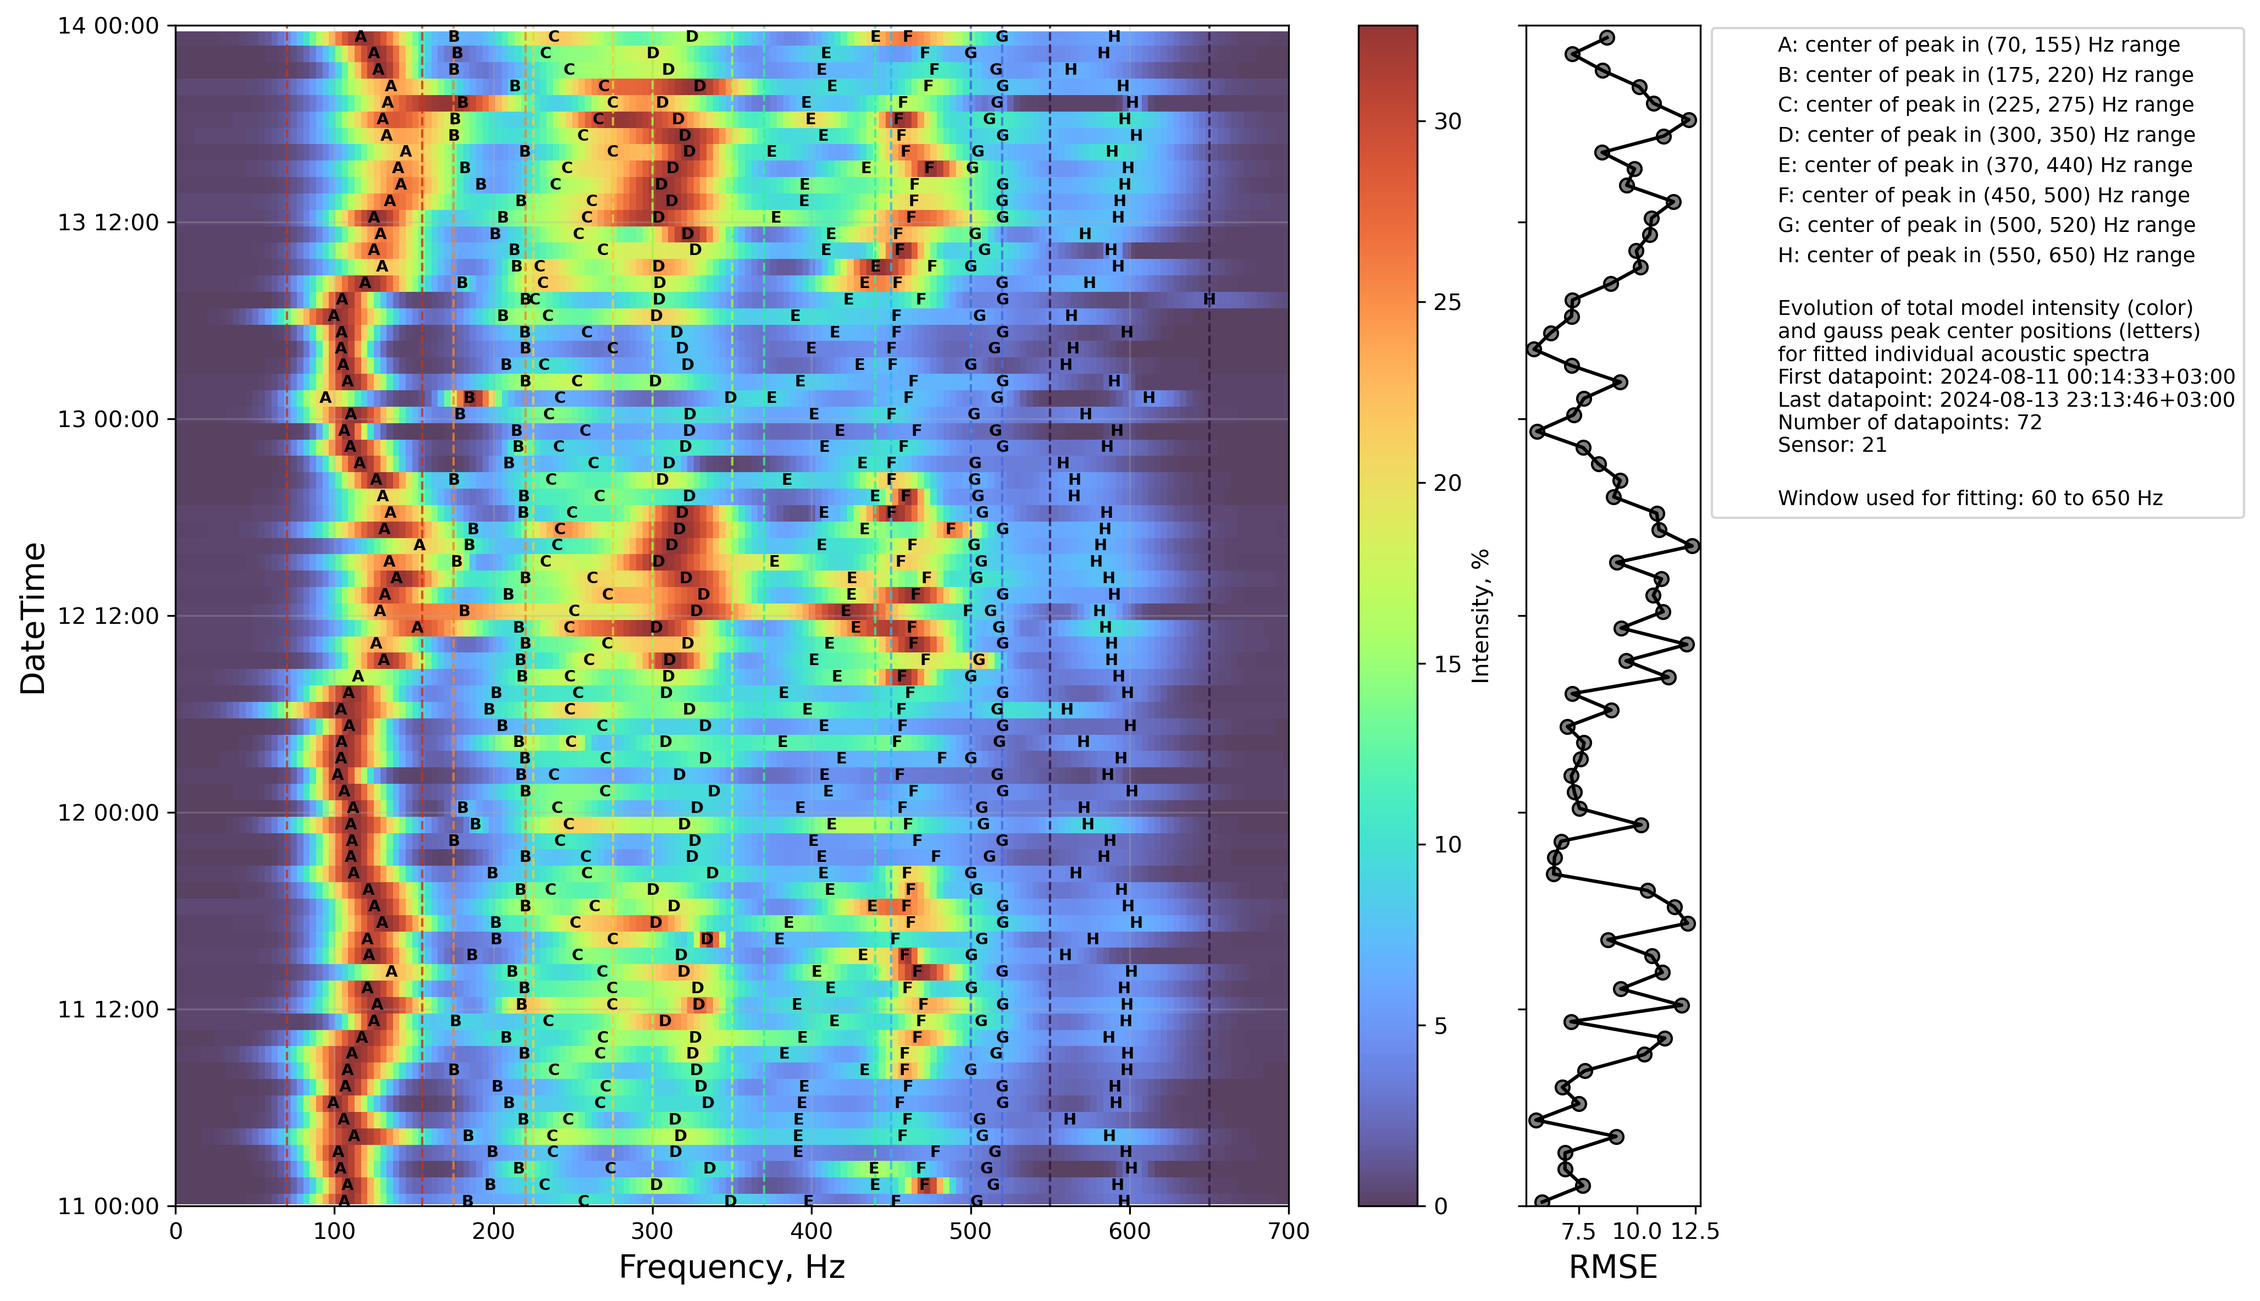
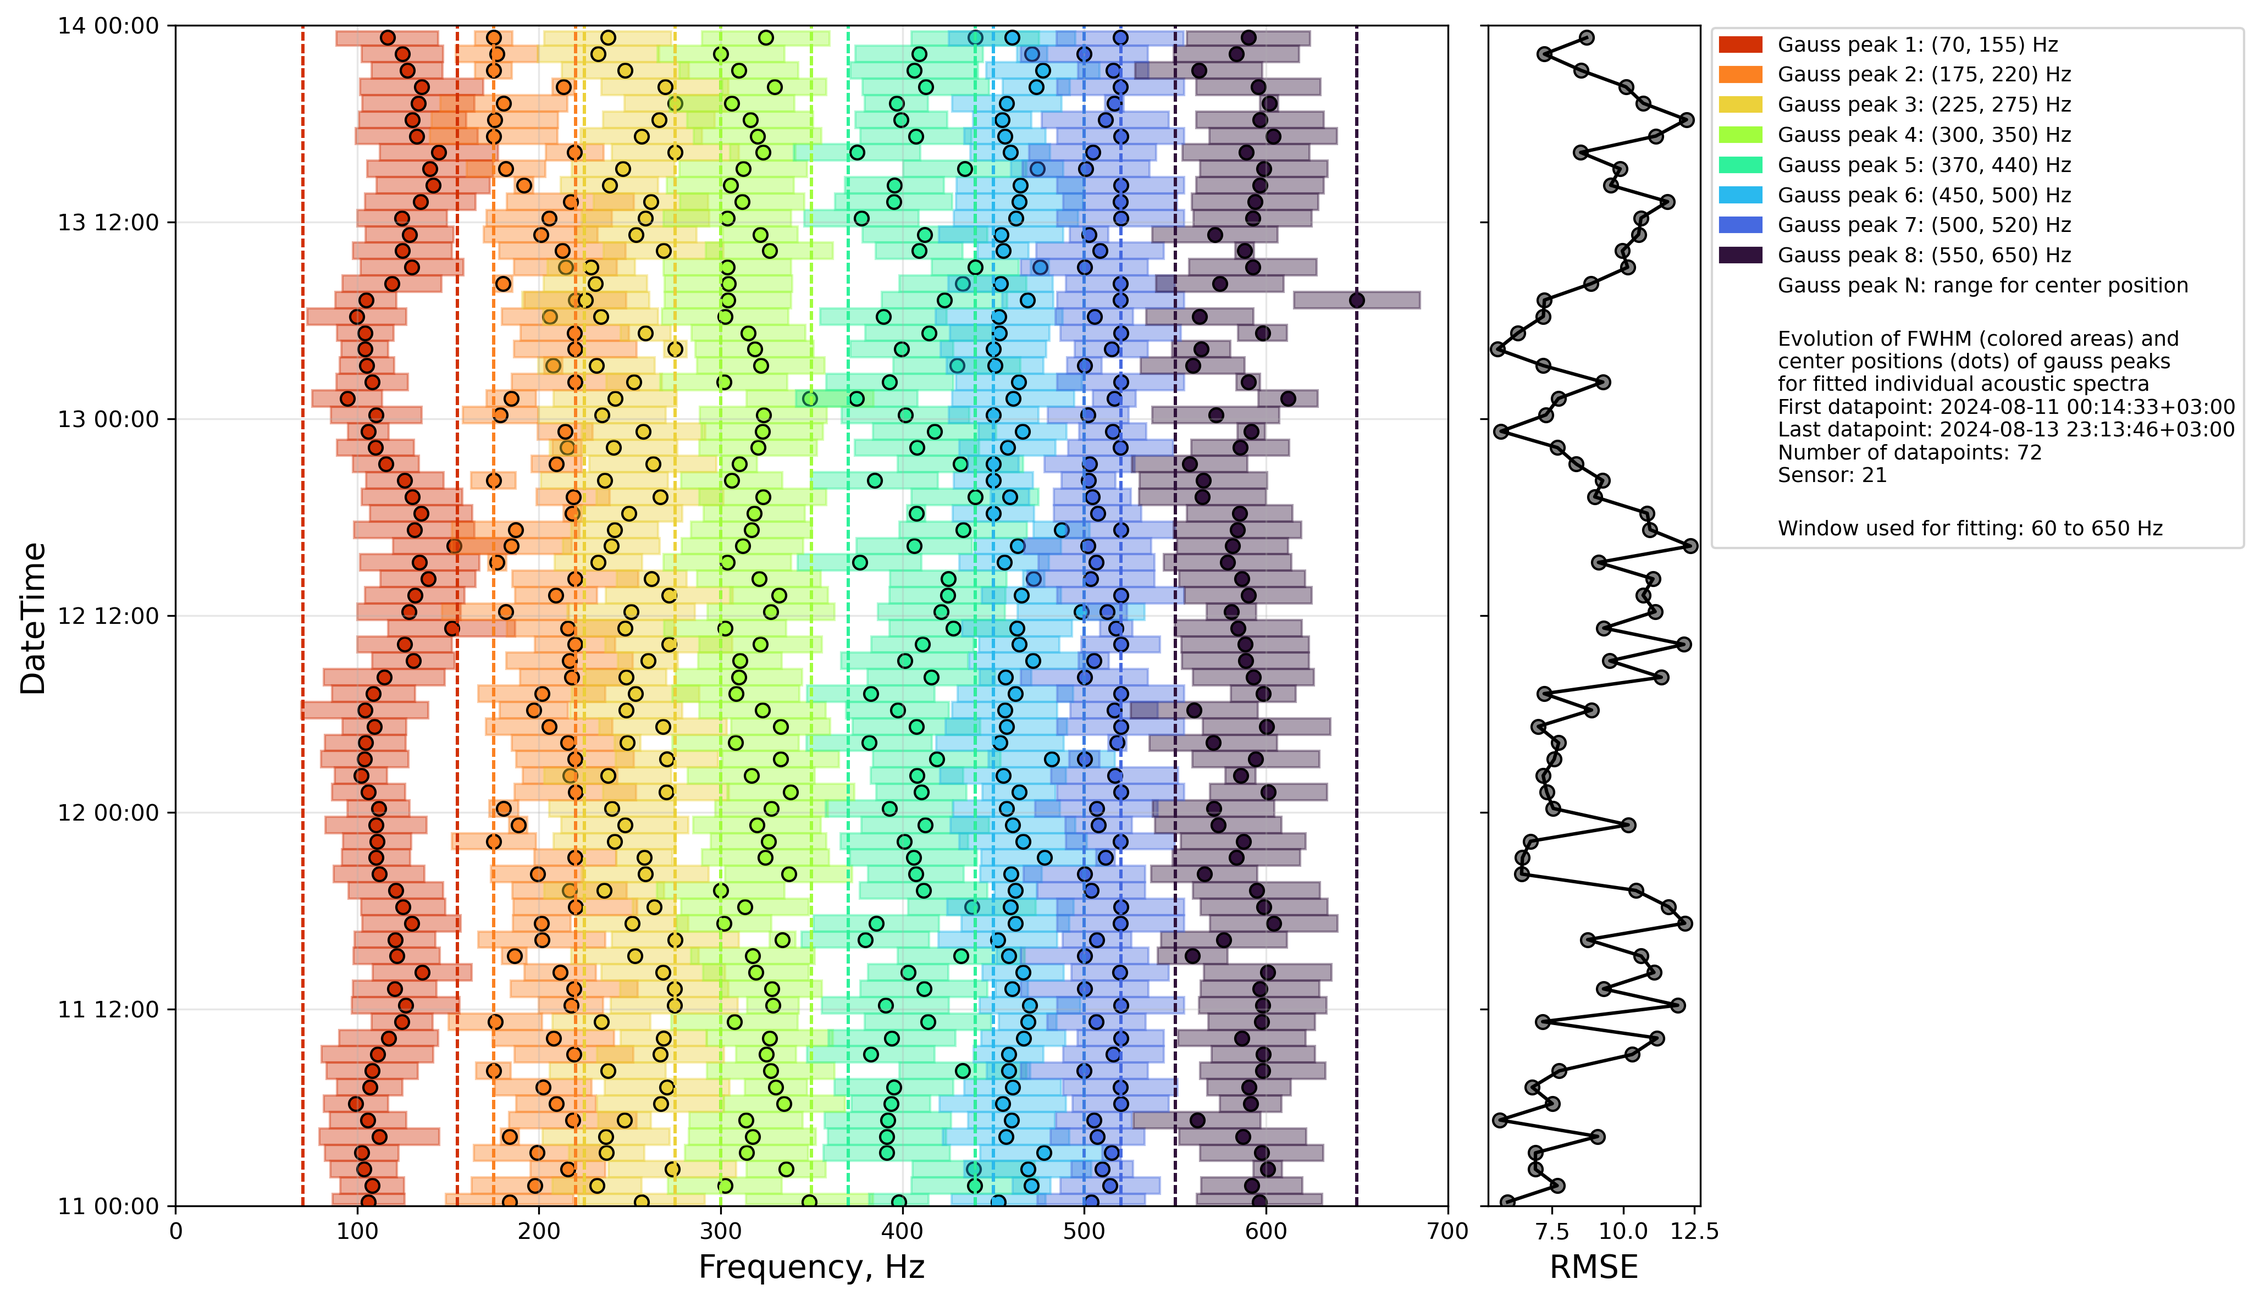
Old version of evolution plot reverted

diff --git a/evolution_plot.py b/evolution_plot.py
@@ -15,6 +15,159 @@ from preprocessing import get_info_total, load_dataset, show_image, download_csv
 from similarity_plot import get_ticks_for_helsinki_tz, format_time_to_helsinki, get_extended_datetimes
 from gauss_plot import plot_rectangles, fit_model
 
+# def plot_evolution(ds, start, end, output_path, name_overide=None):
+#     start_time = time.time()
+#     logging.info(f"Plotting peak evolution for requested range\nSTART:   {start}\nEND:     {end}")
+#     assert start < end
+#     images = []
+#     all_sensors = np.unique(ds.sensor)
+#
+#     for sensor_id in all_sensors:
+#         filtered_ds = ds.where(
+#             (ds.sensor == sensor_id) &
+#             (ds['datetime'] > start) & 
+#             (ds['datetime'] < end),
+#             drop=True,
+#             other=0
+#         )
+#         if len(filtered_ds['datetime'].values) == 0:
+#             continue
+#
+#         measurement_datetimes = np.array([dt.astimezone(HELSINKI_TZ) for dt in filtered_ds['datetime'].values])
+#         extended_datetimes = np.array([dt.astimezone(HELSINKI_TZ) for dt in get_extended_datetimes(ds, sensor_id, start, end)])
+#         assert extended_datetimes[0] <= start # pre-extension datetime should be before start or at start
+#         assert extended_datetimes[-1] >= end # post-extension datetime should be after end or at end
+#
+#         unix_timestamps = np.array([t.timestamp() for t in extended_datetimes]) # Unix/Posix epochs (counted from UTC)
+#         voronoi_edges = (unix_timestamps[:-1] + unix_timestamps[1:]) / 2
+#         first_edge = pd.to_datetime(voronoi_edges[0], unit='s', utc=True).tz_convert('Europe/Helsinki')
+#         last_edge = pd.to_datetime(voronoi_edges[-1], unit='s', utc=True).tz_convert('Europe/Helsinki')
+#         logging.info(f"Voronoi edges from:  {first_edge}\nVoronoi edges to:    {last_edge}")
+#
+#         spectra = np.vstack(filtered_ds['spectrum'].values)
+#         freq_factor = filtered_ds['frequency_scaling_factor'].values[0]
+#         freq_start = filtered_ds['frequency_start_index'].values[0]
+#         spectra_len = spectra.shape[1]
+#         frequencies = np.array([(bin+freq_start)*freq_factor for bin in range(spectra_len)])
+#
+#         fig, axes = plt.subplots(
+#                 1, 2,
+#                 figsize=(14, 8),
+#                 gridspec_kw={'width_ratios': [8, 1]},
+#                 sharey=True
+#         )
+#         ax0 = axes[0]
+#         ax1 = axes[1]
+#         ax0.grid(True, alpha=0.3)
+#         gauss_count = sum(1 for cfg in FITTING_MODEL if cfg['type'] == 'peak')
+#
+#         rmse_values = []
+#         for j, spectrum in enumerate(spectra):
+#             normalized_spectrum = normalize_spectrum(spectrum, frequencies, NORMALIZATION_LIMIT)
+#             (_, result, _, rmse) = fit_model(frequencies, normalized_spectrum)
+#             rmse_values.append(rmse) 
+#             measurement_datetime = measurement_datetimes[j]
+#             measurment_timestamp = measurement_datetime.timestamp()
+#             start_edge = voronoi_edges[j]
+#             end_edge = voronoi_edges[j+1]
+#
+#             freq_grid = np.linspace(0, 700, 175) # Increase num of points to have better resolution
+#             model_intensity = result.eval(x=freq_grid)  # Evaluate model at frequency grid
+#
+#             cmap = plt.cm.turbo
+#             cmap_colors = cmap(np.linspace(0, 1, cmap.N))
+#             cmap_colors[:, -1] = 0.8  # Set alpha channel to 0.8
+#             cmap = mcolors.ListedColormap(cmap_colors)
+#             norm = mcolors.Normalize(vmin=0, vmax=np.max(model_intensity))
+#
+#             # Draw sections of horizontal colored stripe 
+#             for i in range(len(freq_grid)-1):
+#                 model_intensity_at_freq = model_intensity[i]
+#                 color = cmap(norm(model_intensity_at_freq))
+#
+#                 ax0.fill_betweenx(
+#                     [start_edge, end_edge],   # y-values (time range)
+#                     freq_grid[i],             # x-values (frequency)
+#                     freq_grid[i+1],           
+#                     color=color,
+#                     alpha=0.8,
+#                     linewidth=0
+#                 )
+#
+#             # Draw letters
+#             for i, cfg in enumerate(FITTING_MODEL):
+#                 if cfg['type'] == 'peak':
+#                     prefix = f'g{i}_'
+#                     if f'{prefix}center' in result.params:
+#                         center = result.params[f'{prefix}center'].value
+#                         letter = chr(64 + i)
+#                         ax0.text(center, measurment_timestamp, letter, fontsize=7, 
+#                                  ha='center', va='center', weight='bold', color='black'
+#                                  )
+#
+#         # Draw ranges 
+#         plot_rectangles(ax0, gauss_count, fill=False)
+#
+#         ax1.scatter(rmse_values, [d.timestamp() for d in measurement_datetimes], color='grey', edgecolors='black')
+#         ax1.plot(rmse_values, [d.timestamp() for d in measurement_datetimes], 'k-')
+#
+#         datetimes_for_ticks = get_ticks_for_helsinki_tz(start, end)
+#         timestamps_for_ticks = [d.timestamp() for d in datetimes_for_ticks]
+#         ax0.set_yticks(timestamps_for_ticks, labels=datetimes_for_ticks)
+#         ax0.yaxis.set_major_formatter(FuncFormatter(format_time_to_helsinki))
+#
+#         ax0.set_xlabel('Frequency, Hz', fontsize=14)
+#         ax0.set_ylabel('DateTime', fontsize=14)
+#         ax0.set_xlim(0, 700)
+#         ax0.set_ylim(start.timestamp(), end.timestamp())
+#         ax1.set_xlabel('RMSE', fontsize=14)
+#
+#         # Add colorbar
+#         sm = plt.cm.ScalarMappable(cmap=cmap, norm=norm)
+#         sm.set_array([])
+#         cbar = plt.colorbar(sm, ax=ax0, label='Intensity, %')
+#         cbar.ax.tick_params(labelsize=10)
+#
+#         handles = []
+#         for i, cfg in enumerate(FITTING_MODEL):
+#             if cfg['type'] == 'peak':
+#                 letter = chr(64 + i)
+#                 center = cfg['center_range']
+#                 patch = mpatches.Patch(color='None', label=f'{letter}: center of peak in {center} Hz range')
+#                 handles.append(patch)
+#
+#         datapoints_info = "\nEvolution of total model intensity (color)\nand gauss peak center positions (letters)\nfor fitted individual acoustic spectra\n{}Sensor: {}".format(get_info_total(filtered_ds), sensor_id, FITTING_WINDOW_MIN, FITTING_WINDOW_MAX)
+#         patch = mpatches.Patch(color='None', label=datapoints_info) 
+#         handles.append(patch)
+#         window_text = f"\nWindow used for fitting: {FITTING_WINDOW_MIN} to {FITTING_WINDOW_MAX} Hz"
+#         patch = mpatches.Patch(color='None', label=window_text)
+#         handles.append(patch)
+#         fig.legend(bbox_to_anchor=(0.98, 0.98), handles=handles, fontsize=9)
+#
+#         patch = mpatches.Patch(color='None', label=f"Gauss peak N: Center, FWHM, Amplitude")
+#         handles.append(patch) 
+#         plt.tight_layout()
+#         plt.subplots_adjust(right=0.74)
+#
+#         if name_overide:
+#             img_pathname = os.path.join(output_path, name_overide)
+#         else:
+#             first_datetime = min(measurement_datetimes) 
+#             last_datetime = max(measurement_datetimes)
+#             img_pathname = create_artifact_pathname(
+#                             "evolution", output_path, sensor_id, first_datetime, last_datetime, "png"
+#                     )
+#
+#         images.append(img_pathname)
+#         os.makedirs(output_path, exist_ok=True)
+#         plt.savefig(img_pathname, dpi=300, bbox_inches='tight')
+#         plt.close()
+#         logging.info(f"PNG file {img_pathname} was created!")
+#
+#     total_time = time.time() - start_time
+#     logging.info(f"Total plot creation time: {total_time:.2f} seconds")
+#     return images
+
 def plot_evolution(ds, start, end, output_path, name_overide=None):
     start_time = time.time()
     logging.info(f"Plotting peak evolution for requested range\nSTART:   {start}\nEND:     {end}")
@@ -34,15 +187,22 @@ def plot_evolution(ds, start, end, output_path, name_overide=None):
             continue
 
         measurement_datetimes = np.array([dt.astimezone(HELSINKI_TZ) for dt in filtered_ds['datetime'].values])
-        extended_datetimes = np.array([dt.astimezone(HELSINKI_TZ) for dt in get_extended_datetimes(ds, sensor_id, start, end)])
+        num_of_datapoints = len(measurement_datetimes)
+        logging.info(f"\nFor sensor {sensor_id}:")
+        logging.info(f"First datapoints: {min(measurement_datetimes)}")
+        logging.info(f"Last datapoint:   {max(measurement_datetimes)}")
+        logging.info(f"Num of datapoints: {num_of_datapoints}")
+        
+        extended_datetimes = get_extended_datetimes(ds, sensor_id, start, end)
+        extended_datetimes = np.array([dt.astimezone(HELSINKI_TZ) for dt in extended_datetimes])
         assert extended_datetimes[0] <= start # pre-extension datetime should be before start or at start
         assert extended_datetimes[-1] >= end # post-extension datetime should be after end or at end
 
-        unix_timestamps = np.array([t.timestamp() for t in extended_datetimes]) # Unix/Posix epochs (counted from UTC)
-        voronoi_edges = (unix_timestamps[:-1] + unix_timestamps[1:]) / 2
-        first_edge = pd.to_datetime(voronoi_edges[0], unit='s', utc=True).tz_convert('Europe/Helsinki')
-        last_edge = pd.to_datetime(voronoi_edges[-1], unit='s', utc=True).tz_convert('Europe/Helsinki')
-        logging.info(f"Voronoi edges from:  {first_edge}\nVoronoi edges to:    {last_edge}")
+        unix_epochs = np.array([t.timestamp() for t in extended_datetimes]) # Unix/Posix epochs (counted from UTC)
+        voronoi_edges = (unix_epochs[:-1] + unix_epochs[1:]) / 2
+        leftmost_edge = pd.to_datetime(voronoi_edges[0], unit='s', utc=True).tz_convert('Europe/Helsinki')
+        rightmost_edge = pd.to_datetime(voronoi_edges[-1], unit='s', utc=True).tz_convert('Europe/Helsinki')
+        logging.info(f"Voronoi edges from:  {leftmost_edge}\nVoronoi edges to:    {rightmost_edge}")
 
         spectra = np.vstack(filtered_ds['spectrum'].values)
         freq_factor = filtered_ds['frequency_scaling_factor'].values[0]
@@ -53,7 +213,7 @@ def plot_evolution(ds, start, end, output_path, name_overide=None):
         fig, axes = plt.subplots(
                 1, 2,
                 figsize=(14, 8),
-                gridspec_kw={'width_ratios': [8, 1]},
+                gridspec_kw={'width_ratios': [6, 1]},
                 sharey=True
         )
         ax0 = axes[0]
@@ -66,47 +226,37 @@ def plot_evolution(ds, start, end, output_path, name_overide=None):
             normalized_spectrum = normalize_spectrum(spectrum, frequencies, NORMALIZATION_LIMIT)
             (_, result, _, rmse) = fit_model(frequencies, normalized_spectrum)
             rmse_values.append(rmse) 
-            measurement_datetime = measurement_datetimes[j]
-            measurment_timestamp = measurement_datetime.timestamp()
-            start_edge = voronoi_edges[j]
-            end_edge = voronoi_edges[j+1]
+            # intensity_values.append(calculate_total_intensity(spectrum, frequencies))
+            # normalized_spectrum = normalize_spectrum(spectrum)
+            # (_, result, _, _) = fit_model(frequencies, normalized_spectrum)
+            p = result.params
             
-            freq_grid = np.linspace(0, 700, 175) # Increase num of points to have better resolution
-            model_intensity = result.eval(x=freq_grid)  # Evaluate model at frequency grid
-            
-            cmap = plt.cm.turbo
-            cmap_colors = cmap(np.linspace(0, 1, cmap.N))
-            cmap_colors[:, -1] = 0.8  # Set alpha channel to 0.8
-            cmap = mcolors.ListedColormap(cmap_colors)
-            norm = mcolors.Normalize(vmin=0, vmax=np.max(model_intensity))
-            
-            # Draw sections of horizontal colored stripe 
-            for i in range(len(freq_grid)-1):
-                model_intensity_at_freq = model_intensity[i]
-                color = cmap(norm(model_intensity_at_freq))
-                
-                ax0.fill_betweenx(
-                    [start_edge, end_edge],   # y-values (time range)
-                    freq_grid[i],             # x-values (frequency)
-                    freq_grid[i+1],           
-                    color=color,
-                    alpha=0.8,
-                    linewidth=0
-                )
-            
-            # Draw letters
+            # Plot each peak
             for i, cfg in enumerate(FITTING_MODEL):
                 if cfg['type'] == 'peak':
                     prefix = f'g{i}_'
-                    if f'{prefix}center' in result.params:
-                        center = result.params[f'{prefix}center'].value
-                        letter = chr(64 + i)
-                        ax0.text(center, measurment_timestamp, letter, fontsize=7, 
-                                 ha='center', va='center', weight='bold', color='black'
-                                 )
-            
-        # Draw ranges 
-        plot_rectangles(ax0, gauss_count, fill=False)
+                    color = COLORMAP_FOR_GAUSSIANS(i / gauss_count)
+                    center = p[f'{prefix}center'].value
+                    fwhm = p[f'{prefix}fwhm'].value
+                    
+                    measurement_datetime = measurement_datetimes[j]
+                    left_edge = voronoi_edges[j]
+                    right_edge = voronoi_edges[j+1]
+                    duration = right_edge - left_edge
+ 
+                    rect = patches.Rectangle(
+                        (center - fwhm/2, left_edge), 
+                        fwhm, 
+                        duration, 
+                        linewidth=1, 
+                        edgecolor=color, 
+                        facecolor=color, 
+                        alpha=0.4
+                    )
+                    ax0.add_patch(rect)                   
+                    ax0.scatter(center, measurement_datetime.timestamp(), color=color, edgecolors='black')
+                    plot_rectangles(ax0, gauss_count, fill=False)
+
 
         ax1.scatter(rmse_values, [d.timestamp() for d in measurement_datetimes], color='grey', edgecolors='black')
         ax1.plot(rmse_values, [d.timestamp() for d in measurement_datetimes], 'k-')
@@ -122,21 +272,15 @@ def plot_evolution(ds, start, end, output_path, name_overide=None):
         ax0.set_ylim(start.timestamp(), end.timestamp())
         ax1.set_xlabel('RMSE', fontsize=14)
 
-        # Add colorbar
-        sm = plt.cm.ScalarMappable(cmap=cmap, norm=norm)
-        sm.set_array([])
-        cbar = plt.colorbar(sm, ax=ax0, label='Intensity, %')
-        cbar.ax.tick_params(labelsize=10)
-
         handles = []
         for i, cfg in enumerate(FITTING_MODEL):
             if cfg['type'] == 'peak':
-                letter = chr(64 + i)
+                color = COLORMAP_FOR_GAUSSIANS(i / gauss_count)
                 center = cfg['center_range']
-                patch = mpatches.Patch(color='None', label=f'{letter}: center of peak in {center} Hz range')
-                handles.append(patch)
-        
-        datapoints_info = "\nEvolution of total model intensity (color)\nand gauss peak center positions (letters)\nfor fitted individual acoustic spectra\n{}Sensor: {}".format(get_info_total(filtered_ds), sensor_id, FITTING_WINDOW_MIN, FITTING_WINDOW_MAX)
+                handles.append(mpatches.Patch(color=color, label=f'Gauss peak {i}: {center} Hz'))
+        patch = mpatches.Patch(color='None', label=f"Gauss peak N: range for center position")
+        handles.append(patch) 
+        datapoints_info = "\nEvolution of FWHM (colored areas) and\ncenter positions (dots) of gauss peaks\nfor fitted individual acoustic spectra\n{}Sensor: {}".format(get_info_total(filtered_ds), sensor_id, FITTING_WINDOW_MIN, FITTING_WINDOW_MAX)
         patch = mpatches.Patch(color='None', label=datapoints_info) 
         handles.append(patch)
         window_text = f"\nWindow used for fitting: {FITTING_WINDOW_MIN} to {FITTING_WINDOW_MAX} Hz"
@@ -163,9 +307,9 @@ def plot_evolution(ds, start, end, output_path, name_overide=None):
         plt.savefig(img_pathname, dpi=300, bbox_inches='tight')
         plt.close()
         logging.info(f"PNG file {img_pathname} was created!")
-    
-    total_time = time.time() - start_time
-    logging.info(f"Total plot creation time: {total_time:.2f} seconds")
+
+        total_time = time.time() - start_time
+        logging.info(f"Total plot creation time: {total_time:.2f} seconds")
     return images
 
 def plot_peak_evolution_example():
